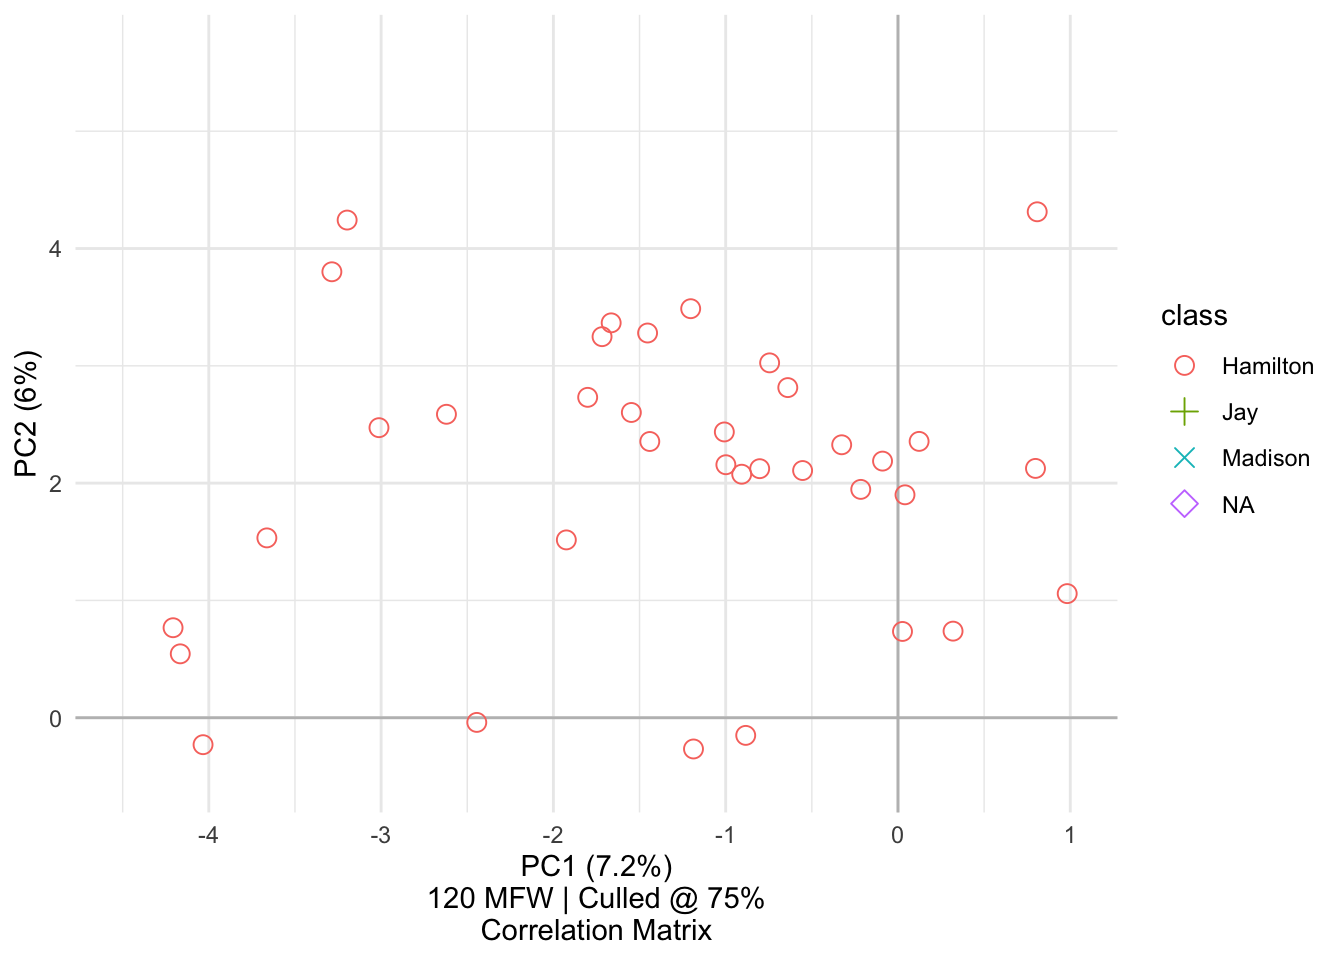
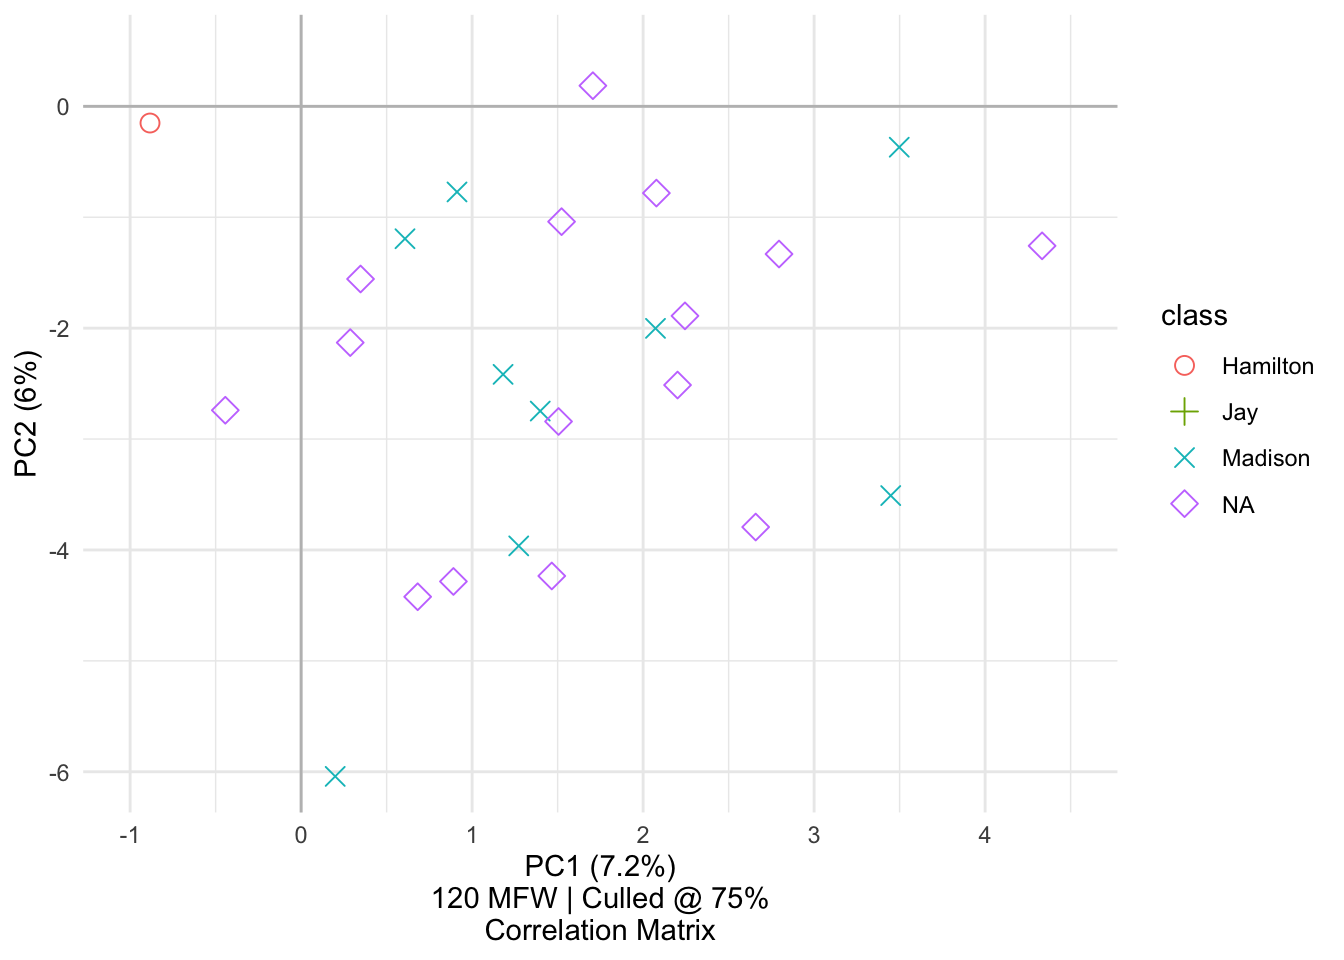
Recenter zoom for different PCA rotation

diff --git a/01-stylo2gg.html b/01-stylo2gg.html
@@ -587,8 +587,8 @@ div.csl-indent {
 <div class="cell page-columns page-full">
 <div class="sourceCode" id="cb26"><pre class="downlit sourceCode r code-with-copy"><code class="sourceCode R"><span><span class="va">federalist_mfw</span> <span class="op">|&gt;</span> </span>
 <span>  <span class="fu"><a href="https://rdrr.io/pkg/stylo2gg/man/stylo2gg.html">stylo2gg</a></span><span class="op">(</span><span class="op">)</span> <span class="op">+</span> </span>
-<span>  <span class="fu"><a href="https://ggplot2.tidyverse.org/reference/lims.html">xlim</a></span><span class="op">(</span><span class="op">-</span><span class="fl">4.5</span>,<span class="fl">1</span><span class="op">)</span> <span class="op">+</span> </span>
-<span>  <span class="fu"><a href="https://ggplot2.tidyverse.org/reference/lims.html">ylim</a></span><span class="op">(</span><span class="op">-</span><span class="fl">0.5</span>,<span class="cn">NA</span><span class="op">)</span> <span class="op">+</span> </span>
+<span>  <span class="fu"><a href="https://ggplot2.tidyverse.org/reference/lims.html">xlim</a></span><span class="op">(</span><span class="op">-</span><span class="fl">1</span>, <span class="fl">4.5</span><span class="op">)</span> <span class="op">+</span> </span>
+<span>  <span class="fu"><a href="https://ggplot2.tidyverse.org/reference/lims.html">ylim</a></span><span class="op">(</span><span class="cn">NA</span>, <span class="fl">0.5</span><span class="op">)</span> <span class="op">+</span> </span>
 <span>  <span class="fu"><a href="https://ggplot2.tidyverse.org/reference/ggtheme.html">theme_minimal</a></span><span class="op">(</span><span class="op">)</span></span></code><button title="Copy to Clipboard" class="code-copy-button"><i class="bi"></i></button></pre></div>
 <div class="cell-output-display page-columns page-full">
 <div class="quarto-figure quarto-figure-center page-columns page-full">
